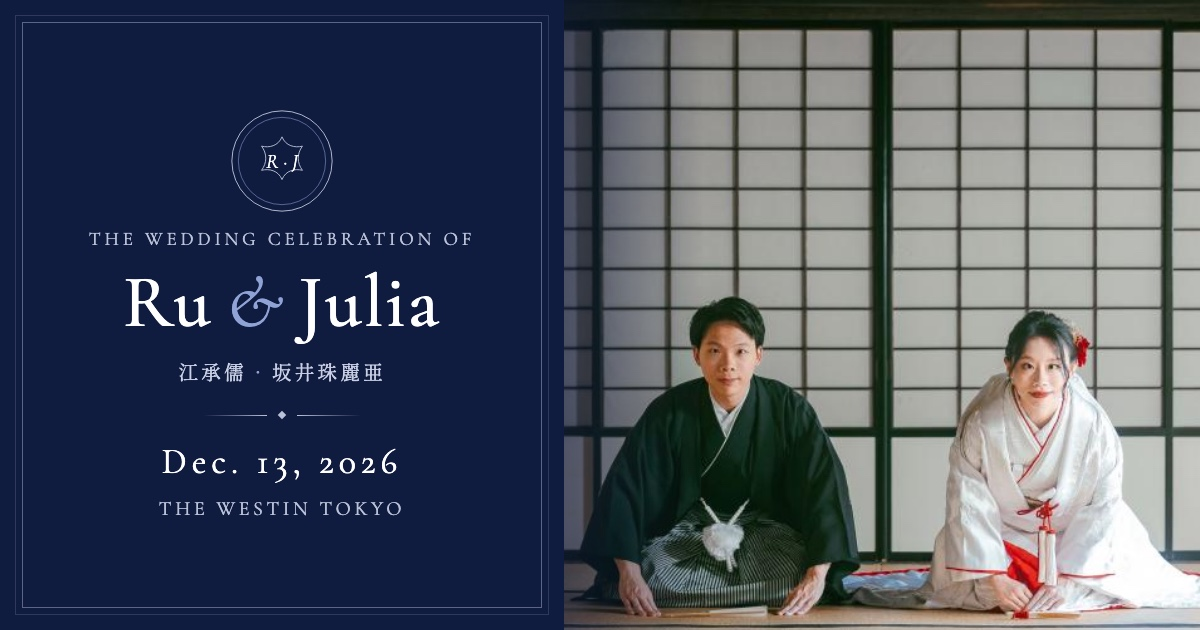
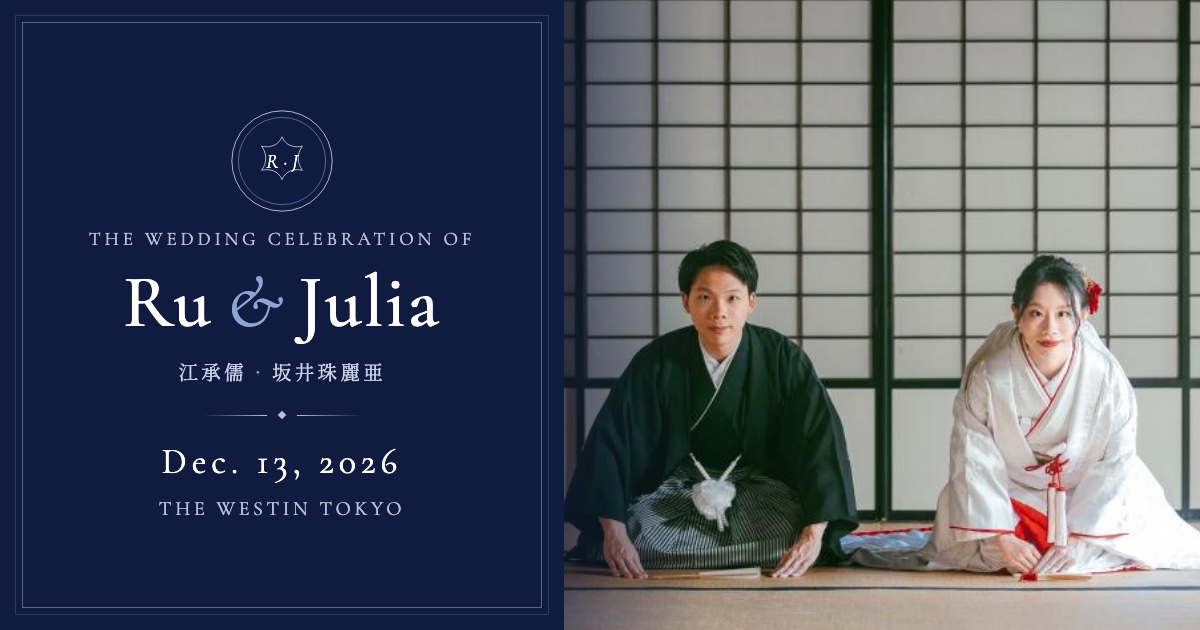
Refine invitation readability and photo crop

Changed region(s): [[0.4625, 0.0, 1.0, 1.0]]

diff --git a/index.html b/index.html
@@ -37,7 +37,7 @@
     background:var(--white);
     color:var(--ink);
     font-family:"Zen Kaku Gothic New","Noto Sans TC",sans-serif;
-    font-weight:300;
+    font-weight:500;
     line-height:1.9;
     -webkit-font-smoothing:antialiased;
   }
@@ -112,7 +112,7 @@
   .photo-frame img{
     width:100%; height:100%; display:block;
     object-fit:cover; object-position:center;
-    transform:translateY(-20%) scale(1.7);
+    transform:translateY(-30%) scale(1.8);
   }
 
   .lang-switch{

diff --git a/og.html b/og.html
@@ -66,7 +66,7 @@
   .photo img{
     width:100%; height:100%; display:block;
     object-fit:cover; object-position:center;
-    transform:translateY(-20%) scale(1.7);
+    transform:translateY(-30%) scale(1.8);
   }
   .photo::after{
     content:""; position:absolute; inset:0;
